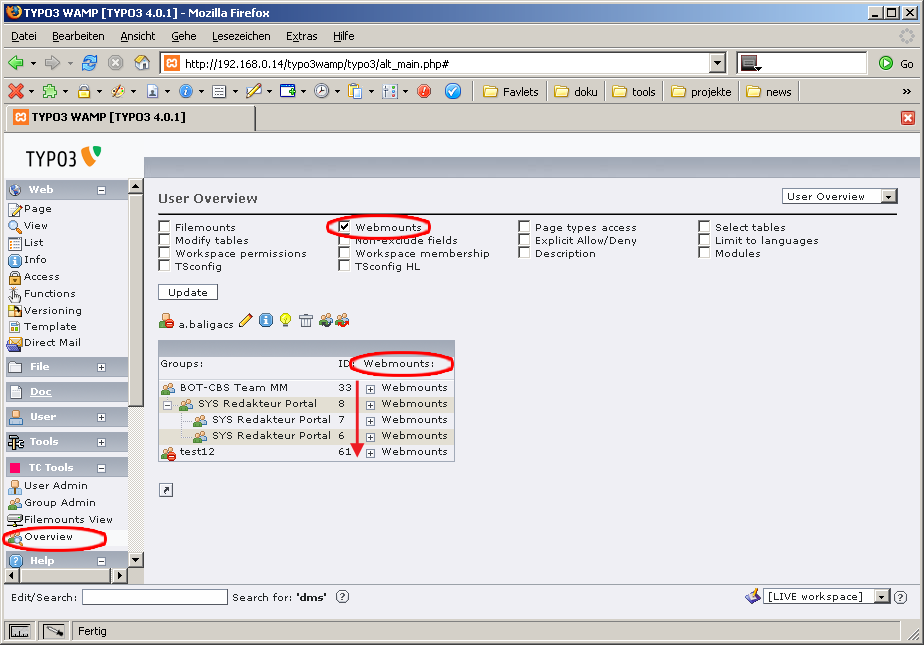
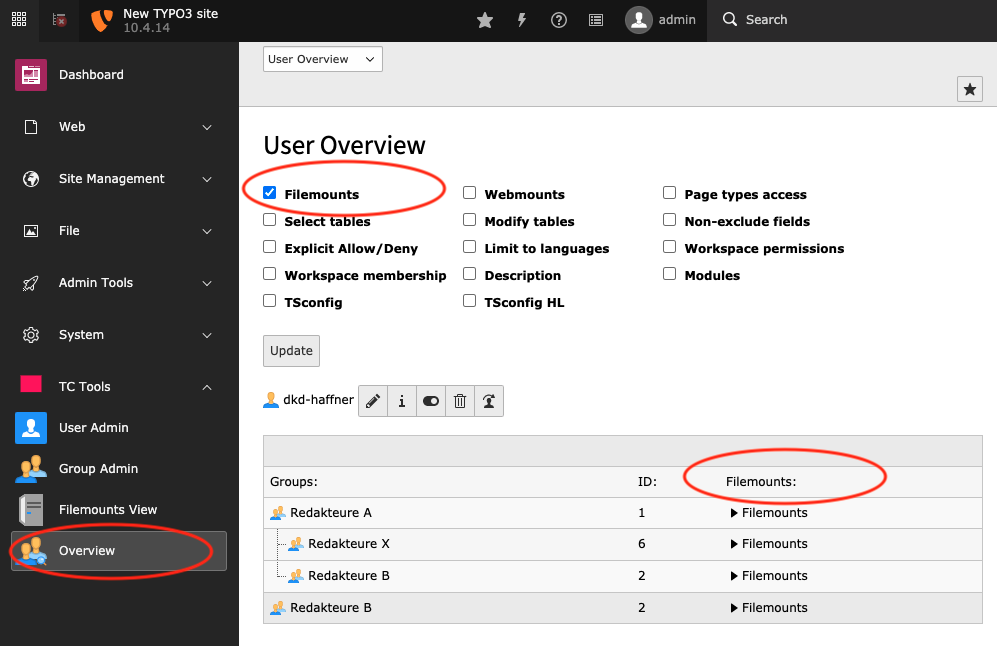
[Task] #136422: Update documentation for TYPO3 v10

diff --git a/Documentation/Overview/Index.rst b/Documentation/Overview/Index.rst
@@ -15,10 +15,9 @@ Benutzer Übersicht
 ------------------
 
 Klicken Sie bei einem Benutzer auf die Lupe. Sie können nun über die Auswahlboxen bestimmen welche Informationsspalten
-angezeigt werden sollen. Über das Plus-Icon können Sie Informationen aufklappen und mit dem Minus-Icon wieder schließen.
+angezeigt werden sollen. Über das Pfeil-Icon können Sie Informationen aufklappen und wieder schließen.
 
 .. image:: Images/manual_html_3e4db70.png
-   :width: 653
    :class: with-shadow float-left
 
 Benutzer Funktionen
@@ -41,18 +40,14 @@ Switch user to
 .. rst-class::  clear-both
 
 .. image:: Images/manual_html_6cebfc9b.png
-   :width: 657
    :class: with-shadow float-left
 
 Gruppen Übersicht
 -----------------
 
 Wählen Sie oben in der Auswahlbox "Gruppen Übersicht". Klicken Sie bei einer Gruppe auf die Lupe. Sie können nun über
-die Auswahlboxen bestimmen welche Informationsspalten angezeigt werden sollen.
-
-Über das Plus-Icon können Sie Informationen aufklappen und mit dem Minus-Icon wieder schließen.
+die Auswahlboxen bestimmen welche Informationsspalten angezeigt werden sollen. Über das Pfeil-Icon können Sie
+Informationen aufklappen und wieder schließen.
 
 .. image:: Images/manual_html_m818b49a.png
-   :height: 456
-   :width: 654
    :class: with-shadow float-left

diff --git a/Documentation/Changelog/Index.rst b/Documentation/Changelog/Index.rst
@@ -11,6 +11,11 @@
 ChangeLog
 =========
 
+2021-03-24 Jan Haffner <jan.haffner@dkd.de>
+-----------------------------------------------------
+
+* compatible with TYPO3 CMS 10.4 LTS only
+
 2018-03-28 Markus Friedrich <markus.friedrich@dkd.de>
 -----------------------------------------------------
 
